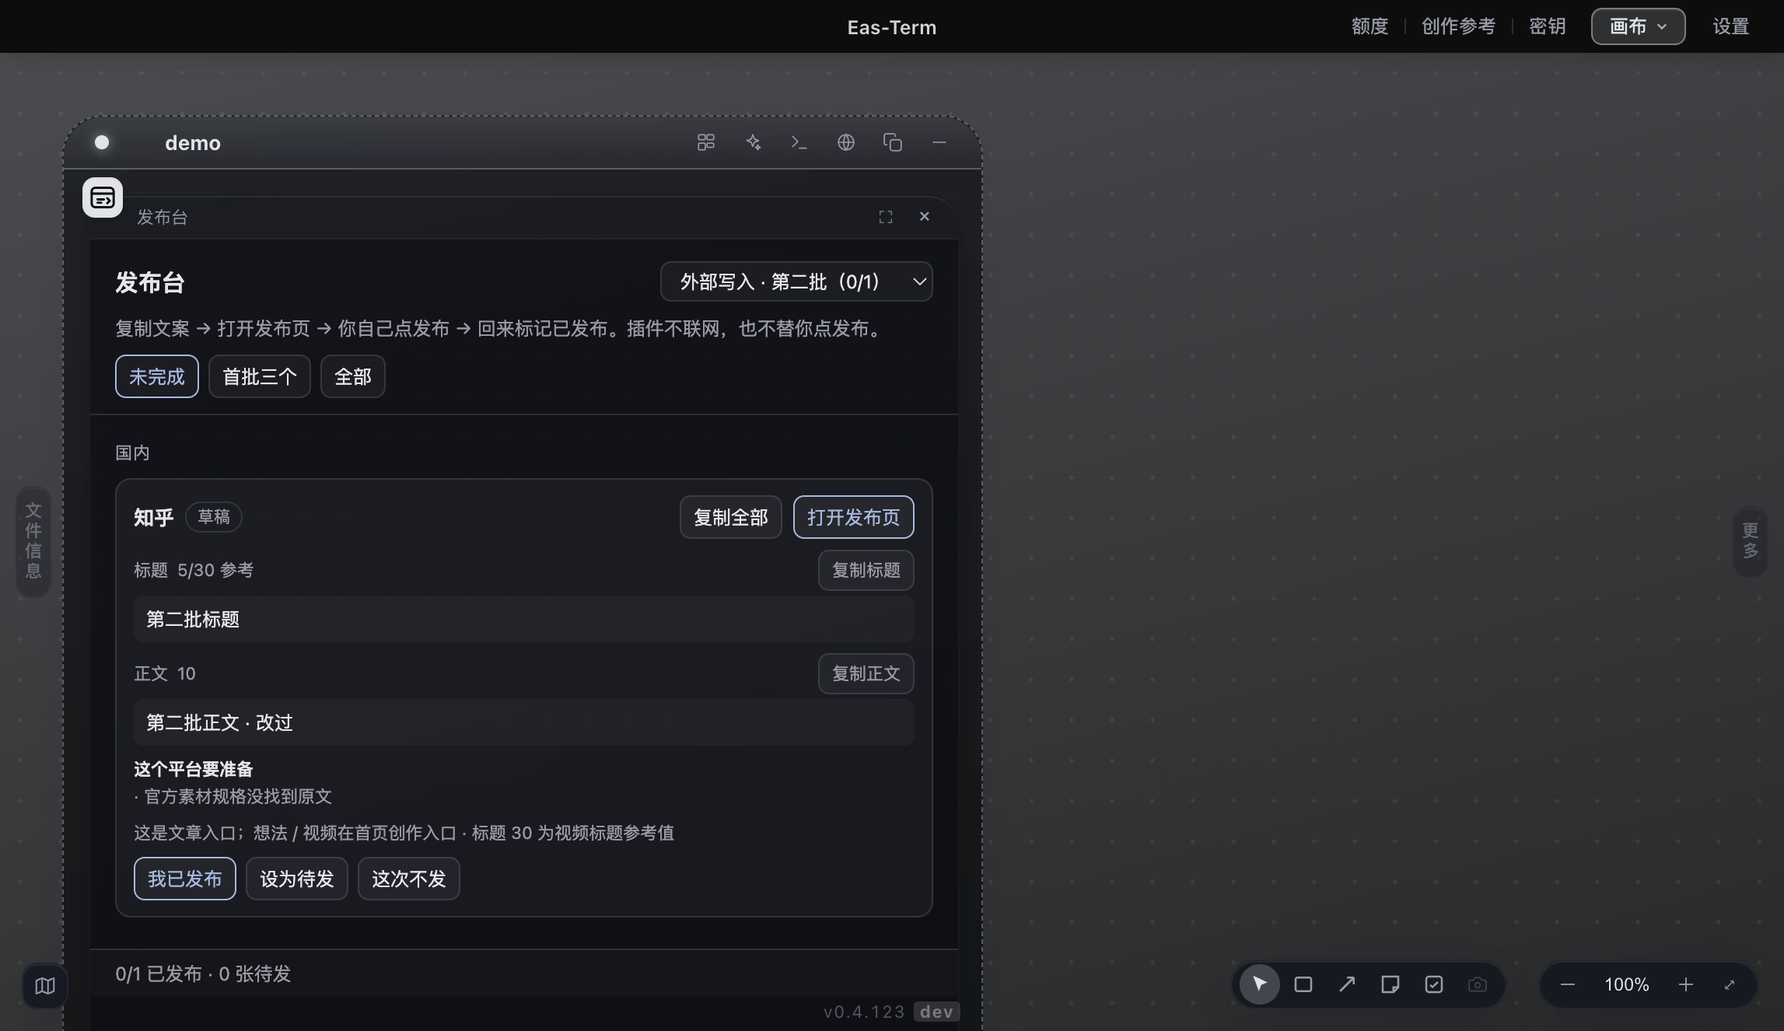
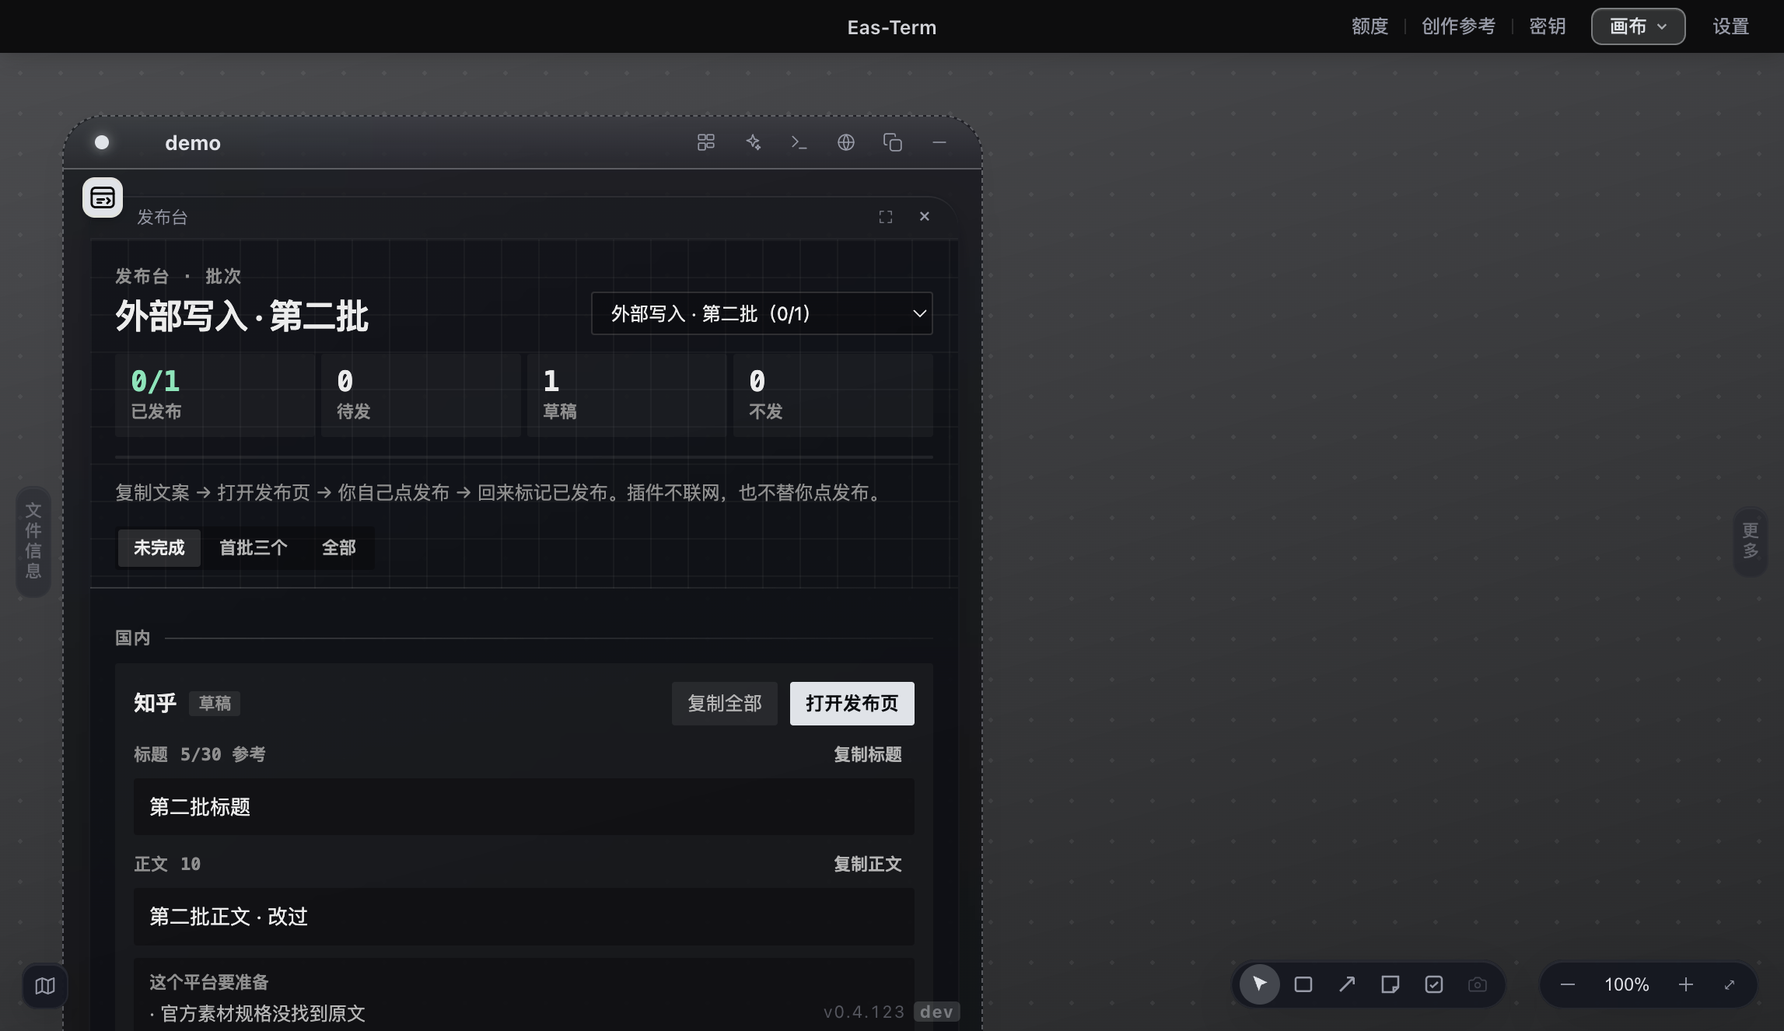
feat(publish-desk): Synth Core-inspired layout; open plugin panels follow theme changes
Panel restyle after the user's Synth Core reference: header with a
four-tile stat row and progress bar, modular card grid (multi-column when
maximized), 2px radius, 4px rhythm, monospace labels and counts, 150ms
colour transitions, faint grid texture in the header. Project rules win
where they conflict (docs/architecture/15): no blue accent (rule 4, the
host --accent values are used), the gradient shell is reduced to one
hairline under the header and above the footer, cards have no borders,
body copy stays sans-serif. Tokens are copied from base.css for both
themes since the sandboxed iframe can't read host variables. The header
scrolls with the content; only the status bar stays pinned.

Host fix found while verifying the light theme: PluginPanel only sent
host-context-changed when the node moved Frame/cwd, so theme switches
never reached already-open panels (every plugin panel kept the theme it
was opened with). It now observes <html data-theme> and pushes the theme.

Verified in an isolated app: dark, light and maximized screenshots with a
realistic batch; the panel follows a theme switch (asserted). npm run
check: 4383 tests, 0 failed.

diff --git a/resources/plugins/publish-desk/ui/panel.html b/resources/plugins/publish-desk/ui/panel.html
@@ -5,53 +5,122 @@
 <meta name="viewport" content="width=device-width,initial-scale=1">
 <title>发布台</title>
 <style>
-  :root{--fg:#e6e6ea;--dim:#9a9aa6;--line:rgba(220,220,235,.13);--card:rgba(220,220,235,.05);--accent:#a2b9e0;--ok:#91c7b9;--warn:#e8c47c;--danger:#f1a9a9}
-  html[data-theme="light"]{--fg:#23252d;--dim:#686b78;--line:rgba(30,34,60,.14);--card:rgba(30,34,60,.04);--accent:#3d5f9e;--ok:#247c67;--warn:#9a6a10;--danger:#a83d3d}
-  *{box-sizing:border-box}body{margin:0;color:var(--fg);background:transparent;font:12px/1.5 -apple-system,BlinkMacSystemFont,"PingFang SC",sans-serif;min-height:100vh}
-  header{padding:14px 16px 10px;border-bottom:1px solid var(--line);display:grid;gap:8px}
-  .top{display:flex;align-items:center;gap:8px}h1{font-size:15px;margin:0;font-weight:650;flex:1}
-  p{margin:0;color:var(--dim)}main{padding:10px 16px 20px;display:grid;gap:8px}
-  button,select,input{font:inherit;color:inherit;background:var(--card);border:1px solid var(--line);border-radius:7px;padding:4px 8px}
-  button{cursor:pointer}button:hover,button:focus-visible,select:focus-visible,input:focus-visible{border-color:var(--accent);outline:none}
-  button.primary{border-color:var(--accent);color:var(--accent)}select{max-width:100%}
-  .filters{display:flex;gap:6px;flex-wrap:wrap}.filters button[aria-pressed="true"]{border-color:var(--accent);color:var(--accent)}
-  .group{margin:6px 0 0;color:var(--dim);font-size:11px;letter-spacing:.04em}
-  .card{border:1px solid var(--line);background:var(--card);border-radius:10px;padding:10px 11px;display:grid;gap:7px}
-  .card[data-status="published"]{border-color:color-mix(in srgb,var(--ok) 55%,transparent)}.card[data-status="skipped"]{opacity:.55}
-  .head{display:flex;align-items:center;gap:7px}.name{font-weight:650;font-size:13px}.head .grow{flex:1}
-  .pill{font-size:10.5px;padding:1px 7px;border-radius:99px;border:1px solid var(--line);color:var(--dim)}
-  .pill.ready{color:var(--accent);border-color:var(--accent)}.pill.published{color:var(--ok);border-color:var(--ok)}
-  .field{display:grid;gap:3px}.label{display:flex;align-items:center;gap:6px;color:var(--dim);font-size:11px}.label .grow{flex:1}
-  .count.over{color:var(--danger)}.count.warn{color:var(--warn)}
-  .text{white-space:pre-wrap;word-break:break-word;padding:6px 8px;border-radius:6px;background:rgba(127,127,140,.07)}
+  /* 版式参照「Synth Core」设计套件（2026-10-02 用户指定）：模块化网格、玻璃面、2px 圆角、4px 节奏、等宽标签、150ms 过渡。
+     与项目视觉规范冲突处以项目为准（docs/architecture/15-视觉令牌与主题.md）：
+     · 强调色不用它的蓝 #2563EB —— 两个主题都不用蓝，强调靠明度（规矩 ④），取宿主 --accent 的两套值；
+     · 层级靠表面明度不靠描边（规矩 ① ②）：它的渐变描边外壳只留表头下面一条发丝线；卡片不描边；
+     · 正文仍用无衬线（中文长文案等宽难读），等宽只给标签、计数、状态。
+     iframe 读不到宿主 CSS 变量，下面的数值抄自 src/renderer/src/styles/base.css 的暗 / 亮两套令牌。 */
+  :root{
+    --bg:#1c1c1c;--t1:#ececec;--t2:#b4b4b4;--t3:#8f8f8f;
+    --lift1:rgba(255,255,255,.035);--lift2:rgba(255,255,255,.07);--lift3:rgba(255,255,255,.12);
+    --wash1:rgba(0,0,0,.28);--wash2:rgba(0,0,0,.4);
+    --accent:#dfe3e8;--on-accent:#0b0d12;--stroke:rgba(255,255,255,.14);
+    --ok:#6ee7b7;--warn:#fcd34d;--danger:#fda4af;
+    --hair:linear-gradient(90deg,rgba(255,255,255,.16),rgba(255,255,255,.04));
+    --grid:rgba(255,255,255,.035);--glass:rgba(28,28,28,.72);
+    --mono:ui-monospace,"SF Mono",Menlo,monospace;--sans:-apple-system,BlinkMacSystemFont,"PingFang SC",sans-serif;
+    --ease:cubic-bezier(.4,0,.2,1);--r:2px
+  }
+  html[data-theme="light"]{
+    --bg:#ffffff;--t1:#0d0d0d;--t2:#5d5d5d;--t3:#737373;
+    --lift1:rgba(0,0,0,.028);--lift2:rgba(0,0,0,.05);--lift3:rgba(0,0,0,.075);
+    --wash1:rgba(0,0,0,.035);--wash2:rgba(0,0,0,.055);
+    --accent:#2f3338;--on-accent:#ffffff;--stroke:rgba(0,0,0,.16);
+    --ok:#0f7a4d;--warn:#8a6100;--danger:#b42318;
+    --hair:linear-gradient(90deg,rgba(0,0,0,.14),rgba(0,0,0,.03));
+    --grid:rgba(0,0,0,.035);--glass:rgba(255,255,255,.8)
+  }
+  *{box-sizing:border-box}
+  body{margin:0;color:var(--t1);background:transparent;font:13px/1.6 var(--sans);min-height:100vh}
+  button,select,input{font:inherit;color:inherit;border-radius:var(--r);transition:background-color 150ms var(--ease),color 150ms var(--ease),border-color 150ms var(--ease)}
+  button{cursor:pointer;background:var(--lift2);border:0;padding:4px 10px;min-height:28px;font-size:12px;color:var(--t2)}
+  button:hover{background:var(--lift3);color:var(--t1)}
+  button:focus-visible,select:focus-visible,input:focus-visible{outline:1px solid var(--accent);outline-offset:1px}
+  button.primary{background:var(--accent);color:var(--on-accent);font-weight:600}
+  button.primary:hover{background:color-mix(in srgb,var(--accent) 86%,var(--bg))}
+  select,input{background:var(--wash1);border:1px solid var(--stroke);padding:4px 8px;min-height:28px}
+  select{max-width:100%;font-size:12px}
+  p{margin:0;color:var(--t2)}
+  .mono{font-family:var(--mono)}
+
+  /* 表头：网格底纹 + 唯一一条渐变发丝线（Synth Core 的「渐变描边外壳」收敛成这一条） */
+  /* 表头随内容滚走：它有统计条，钉住会吃掉面板近一半高度；底部状态栏保持钉住 */
+  header{position:relative;padding:16px 16px 12px;display:grid;gap:12px;
+    background-image:linear-gradient(var(--grid) 1px,transparent 1px),linear-gradient(90deg,var(--grid) 1px,transparent 1px);background-size:24px 24px}
+  header::after{content:"";position:absolute;left:0;right:0;bottom:0;height:1px;background:var(--hair)}
+  .eyebrow{font:600 11px/16px var(--mono);letter-spacing:.08em;color:var(--t3);text-transform:uppercase}
+  .top{display:flex;align-items:flex-end;gap:12px}
+  .top .titles{flex:1;min-width:0;display:grid;gap:4px}
+  h1{font-size:22px;line-height:1.15;margin:0;font-weight:600;letter-spacing:-.03em;overflow:hidden;text-overflow:ellipsis;white-space:nowrap}
+  .top select{flex:0 1 220px}
+  .lede{font-size:12px;color:var(--t3)}
+  /* 统计条：模块化小面板，等宽大数字 */
+  .stats{display:grid;grid-template-columns:repeat(4,1fr);gap:4px}
+  .stat{background:var(--lift1);border-radius:var(--r);padding:8px 10px;display:grid;gap:2px;min-width:0}
+  .stat b{font:600 18px/1.1 var(--mono);letter-spacing:-.02em;color:var(--t1)}
+  .stat span{font:600 11px/16px var(--mono);color:var(--t3)}
+  .stat.ok b{color:var(--ok)}
+  .bar{height:2px;background:var(--lift2);border-radius:var(--r);overflow:hidden}
+  .bar i{display:block;height:100%;background:var(--accent);transition:width 150ms var(--ease)}
+  .filters{display:flex;gap:2px;padding:2px;background:var(--wash1);border-radius:var(--r);width:max-content;max-width:100%;flex-wrap:wrap}
+  .filters button{background:transparent;font:600 11px/16px var(--mono);min-height:24px;padding:4px 10px}
+  .filters button[aria-pressed="true"]{background:var(--lift3);color:var(--t1)}
+
+  /* 卡片网格：窄时一列，最大化后按宽度铺成多列（模块化面板） */
+  main{padding:16px;display:grid;grid-template-columns:repeat(auto-fill,minmax(320px,1fr));gap:8px;align-items:start}
+  main>.group,main>p,main>.empty,main>.error-box{grid-column:1/-1}
+  .group{margin:8px 0 0;display:flex;align-items:center;gap:8px;font:600 11px/16px var(--mono);letter-spacing:.08em;color:var(--t3);text-transform:uppercase}
+  .group::after{content:"";flex:1;height:1px;background:var(--hair)}
+  .card{background:var(--lift1);border-radius:var(--r);padding:12px;display:grid;gap:8px;position:relative;transition:background-color 150ms var(--ease)}
+  .card:hover{background:var(--lift2)}
+  .card[data-status="published"]::before{content:"";position:absolute;left:0;top:0;bottom:0;width:2px;background:var(--ok)}
+  .card[data-status="skipped"]{opacity:.5}
+  .head{display:flex;align-items:center;gap:8px;flex-wrap:wrap}
+  .name{font-weight:600;font-size:14px;letter-spacing:-.01em}
+  .head .grow{flex:1}
+  .pill{font:600 10.5px/16px var(--mono);padding:0 6px;border-radius:var(--r);background:var(--lift2);color:var(--t3)}
+  .pill.ready{background:var(--accent);color:var(--on-accent)}
+  .pill.published{color:var(--ok);background:color-mix(in srgb,var(--ok) 14%,transparent)}
+  .pill.hit-count{color:var(--warn);background:color-mix(in srgb,var(--warn) 14%,transparent)}
+  .field{display:grid;gap:4px}
+  .label{display:flex;align-items:center;gap:8px;font:600 11px/16px var(--mono);color:var(--t3)}
+  .label .grow{flex:1}
+  .label button{min-height:22px;padding:2px 8px;font:600 11px/16px var(--mono);background:transparent}
+  .label button:hover{background:var(--lift2)}
+  .count{font-variant-numeric:tabular-nums}.count.over{color:var(--danger)}.count.warn{color:var(--warn)}
+  .text{white-space:pre-wrap;word-break:break-word;padding:8px 10px;border-radius:var(--r);background:var(--wash1);color:var(--t1)}
   .text.clip{max-height:7.5em;overflow:hidden;mask-image:linear-gradient(#000 70%,transparent)}
-  .empty-field{color:var(--dim);font-style:italic}
-  .lint{margin:0;padding:0;list-style:none;display:grid;gap:2px}.lint li{font-size:11px}.lint .over{color:var(--danger)}.lint .warn{color:var(--warn)}
-  .media{display:grid;gap:6px}.media button{max-width:100%;overflow:hidden;text-overflow:ellipsis;white-space:nowrap}
-  .mitem{display:grid;gap:2px}.mrow{display:flex;align-items:center;gap:8px;flex-wrap:wrap}.minfo{color:var(--dim);font-size:11px}
-  .missue{font-size:11px}.missue.over{color:var(--danger)}.missue.warn{color:var(--warn)}.missue.ok{color:var(--ok)}
-  .need{font-size:11px;color:var(--dim);display:grid;gap:1px}.need b{font-weight:600;color:var(--fg)}
-  .notes{color:var(--dim);font-size:11px}.muted-inline{color:var(--dim);font-size:11px}
-  .actions{display:flex;gap:6px;flex-wrap:wrap;align-items:center}.actions input{flex:1;min-width:160px}
-  .copied{color:var(--ok);font-size:11px}
-  mark{background:color-mix(in srgb,var(--warn) 30%,transparent);color:inherit;border-radius:3px;padding:0 1px}
+  .empty-field{color:var(--t3);font-style:italic}
+  .lint{margin:0;padding:0;list-style:none;display:grid;gap:4px}.lint li{font-size:12px}.lint .over{color:var(--danger)}.lint .warn{color:var(--warn)}
+  .media{display:grid;gap:4px}.media button{max-width:100%;overflow:hidden;text-overflow:ellipsis;white-space:nowrap;text-align:left}
+  .mitem{display:grid;gap:2px}.mrow{display:flex;align-items:center;gap:8px;flex-wrap:wrap}.minfo{color:var(--t3);font:11px/16px var(--mono)}
+  .missue{font-size:12px}.missue.over{color:var(--danger)}.missue.warn{color:var(--warn)}.missue.ok{color:var(--ok)}
+  .need{font-size:12px;color:var(--t2);display:grid;gap:2px;padding:8px 10px;background:var(--wash1);border-radius:var(--r)}
+  .need b{font:600 11px/16px var(--mono);color:var(--t3)}
+  .notes,.muted-inline{color:var(--t3);font-size:12px}
+  .actions{display:flex;gap:4px;flex-wrap:wrap;align-items:center;padding-top:4px}
+  .actions input{flex:1;min-width:160px}
+  .copied{color:var(--ok);font:600 11px/16px var(--mono)}
+  mark{background:color-mix(in srgb,var(--warn) 30%,transparent);color:inherit;border-radius:var(--r);padding:0 2px}
   mark.high{background:color-mix(in srgb,var(--danger) 32%,transparent)}
-  .hits{margin:0;padding:0;list-style:none;display:grid;gap:6px}
-  .hit{border-left:2px solid var(--warn);padding:2px 0 2px 8px;display:grid;gap:1px}.hit.high{border-color:var(--danger)}
-  .hit .w{font-weight:600}.hit .k{color:var(--dim);font-size:11px}.hit .s{font-size:11px}
-  .hit .b{color:var(--dim);font-size:11px}.hit .b button{font-size:11px;padding:0 6px;margin-left:4px}
-  .pill.hit-count{color:var(--warn);border-color:var(--warn)}
-  .error-box{padding:8px 9px;border:1px solid var(--danger);border-radius:7px;color:var(--danger)}
-  .empty{padding:28px 10px;text-align:center;color:var(--dim)}
-  footer{position:sticky;bottom:0;padding:6px 16px;color:var(--dim);border-top:1px solid var(--line);background:rgba(22,22,28,.9)}
-  html[data-theme="light"] footer{background:rgba(248,248,251,.92)}
+  .hits{margin:0;padding:0;list-style:none;display:grid;gap:8px}
+  .hit{border-left:2px solid var(--warn);padding:2px 0 2px 8px;display:grid;gap:2px}.hit.high{border-color:var(--danger)}
+  .hit .w{font-weight:600}.hit .k{color:var(--t3);font:11px/16px var(--mono)}.hit .s{font-size:12px}
+  .hit .b{color:var(--t3);font-size:12px}.hit .b button{min-height:20px;padding:0 6px;margin-left:4px;font-size:11px}
+  .error-box{padding:8px 10px;border-radius:var(--r);background:color-mix(in srgb,var(--danger) 14%,transparent);color:var(--danger)}
+  .empty{padding:48px 16px;text-align:center;color:var(--t3)}
+  footer{position:sticky;bottom:0;padding:8px 16px;color:var(--t3);font:11px/16px var(--mono);background:var(--glass);backdrop-filter:blur(4px)}
+  footer::before{content:"";position:absolute;left:0;right:0;top:0;height:1px;background:var(--hair)}
 </style>
 </head>
 <body>
 <header>
-  <div class="top"><h1>发布台</h1><select id="batch" aria-label="选择批次"></select></div>
-  <p>复制文案 → 打开发布页 → 你自己点发布 → 回来标记已发布。插件不联网，也不替你点发布。</p>
-  <div class="filters" id="filters"></div>
+  <div class="top"><div class="titles"><span class="eyebrow">发布台 · 批次</span><h1 id="title">发布台</h1></div><select id="batch" aria-label="选择批次"></select></div>
+  <div class="stats" id="stats"></div>
+  <div class="bar" aria-hidden="true"><i id="bar" style="width:0"></i></div>
+  <p class="lede">复制文案 → 打开发布页 → 你自己点发布 → 回来标记已发布。插件不联网，也不替你点发布。</p>
+  <div class="filters" id="filters" role="group" aria-label="筛选"></div>
 </header>
 <main id="main"><div class="empty">正在连接宿主…</div></main>
 <footer id="status">连接中</footer>
@@ -113,6 +182,12 @@ function render(){
   const sel=document.getElementById('batch')
   sel.innerHTML=batches.length?batches.map(b=>`<option value="${esc(b.batchId)}"${b.batchId===batchId?' selected':''}>${esc(b.title)}（${b.published}/${b.total}）</option>`).join(''):'<option>暂无批次</option>'
   sel.disabled=!batches.length
+  // 表头：批次名 + 四格统计 + 进度条（不发的不算进分母）
+  const st=batch?{pub:batch.published,ready:batch.ready,skip:batch.skipped,total:batch.total}:null
+  const goal=st?Math.max(0,st.total-st.skip):0
+  document.getElementById('title').textContent=batch?batch.title:'发布台'
+  document.getElementById('stats').innerHTML=st?[['ok','已发布',`${st.pub}/${goal}`],['','待发',st.ready],['','草稿',Math.max(0,st.total-st.pub-st.ready-st.skip)],['','不发',st.skip]].map(([k,l,v])=>`<div class="stat ${k}"><b>${v}</b><span>${l}</span></div>`).join(''):''
+  document.getElementById('bar').style.width=goal?Math.round(st.pub/goal*100)+'%':'0'
   document.getElementById('filters').innerHTML=FILTERS.map(([k,t])=>`<button type="button" data-filter="${k}" aria-pressed="${filter===k}">${t}</button>`).join('')
   const main=document.getElementById('main'),err=error?`<div class="error-box" role="alert">${esc(error)}</div>`:''
   if(!batch){main.innerHTML=err+'<div class="empty">还没有发布批次。让 AI 「把这次宣发按平台写进发布台」，卡片就会出现在这里。</div>';return}
@@ -144,7 +219,7 @@ document.addEventListener('click',e=>{
   if(d.status&&c){tool('desk_mark',{batchId,platform:c.platform,status:d.status}).then(refresh).catch(fail)}
 })
 ;(async()=>{try{
-  const init=await rpc('ui/initialize',{appInfo:{name:'publish-desk',version:'0.1.0'},appCapabilities:{},protocolVersion:'2026-01-26'})
+  const init=await rpc('ui/initialize',{appInfo:{name:'publish-desk',version:'0.1.1'},appCapabilities:{},protocolVersion:'2026-01-26'})
   if(init?.hostContext?.theme)document.documentElement.dataset.theme=init.hostContext.theme
   parent.postMessage({jsonrpc:'2.0',method:'ui/notifications/initialized',params:{}},'*')
   await refresh()

diff --git a/src/renderer/src/features/plugins/PluginPanel.tsx b/src/renderer/src/features/plugins/PluginPanel.tsx
@@ -493,6 +493,22 @@ export function PluginPanel({ ctx, popup = false, onPopupResize }: { ctx: Canvas
     // eslint-disable-next-line react-hooks/exhaustive-deps
   }, [ctx.frameId, ctx.cwd, ctx.projectId])
 
+  // 主题变了 → host-context-changed。上面那个只在节点换 Frame / 目录时发，主题切换从来没送到已开的面板：
+  // 所有插件面板都停在打开那一刻的主题，切到亮色后还是深色的字和底（2026-10-02 发布台改版时实测）。
+  // 盯 <html data-theme> 而不是 store：applyTheme 和「跟随系统」最后都落在这个属性上。
+  useEffect(() => {
+    if (state.k !== 'ready') return
+    let last = themeNow()
+    const mo = new MutationObserver(() => {
+      const now = themeNow()
+      if (now === last || !initializedRef.current) return
+      last = now
+      iframeRef.current?.contentWindow?.postMessage({ jsonrpc: '2.0', method: 'ui/notifications/host-context-changed', params: { theme: now } }, '*')
+    })
+    mo.observe(document.documentElement, { attributes: true, attributeFilter: ['data-theme'] })
+    return () => mo.disconnect()
+  }, [state])
+
   if(configuration)return <PluginConfigurationControls plugin={configuration} initialOpen onClose={()=>{setConfiguration(null);setReloadKey(k=>k+1)}}/>
   if (state.k === 'loading') return <div className="plg-state">{tr('pluginShell.starting')}</div>
   if (state.k === 'error')

diff --git a/docs/architecture/10d-专题记录.md b/docs/architecture/10d-专题记录.md
@@ -834,6 +834,11 @@ Jev v2必须按requirements.capabilities里的jev.decisions.v2分流，不按名
 ### 2026-10-02 发布台面板跟随数据文件刷新（0.1.1）
 面板原来只在宿主转来 `ui/notifications/tool-result` 时刷新，而那只覆盖**经宿主**调用的 `desk_*`。实际发生过：没接好发布台的会话里，AI 自己起 `server.mjs` 把批次写进数据文件——宿主不知道，Frame 里开着的面板一直空着，要关掉重开。现在宿主托管的那个 server 在 `initialize` 后用 `lib/watch.mjs` 盯 `EAS_PLUGIN_DATA` 目录（盯目录不盯文件：store 是写临时文件再 rename），数据文件大小/mtime/inode 变了就发 `notifications/resources/updated`，宿主 `pluginHost.ts onNotification` 原样转给该插件所有面板；面板收到即 refresh，且**新出现的批次自动切过去**（不然停在旧批次上，看起来像没生成）。只读不写，不会和面板 refresh 互相触发。真机验收 `scripts/verify-publish-desk-live.mjs`（复现「绕过宿主写入」，原版本卡在第一步）。
 
+### 2026-10-02 发布台版式（Synth Core 参考）与插件面板跟随主题
+版式参照用户指定的「Synth Core」设计套件：表头四格统计 + 进度条、模块化卡片网格（最大化铺多列）、2px 圆角、4px 节奏、等宽标签与计数、150ms 颜色过渡、表头网格底纹。**与项目规范冲突处以项目为准**（15 图纸）：不用它的蓝 `#2563EB`（规矩 ④，强调色取宿主 `--accent` 两套值）；渐变描边外壳只留表头 / 状态栏一条发丝线、卡片不描边（规矩 ① ②）；正文仍无衬线。iframe 读不到宿主变量，`panel.html` 顶部抄了 base.css 的暗 / 亮两套令牌，**改宿主令牌时这里要跟着改**。
+顺带修了宿主的老毛病：`PluginPanel.tsx` 只在节点换 Frame / 目录时发 `host-context-changed`，**主题切换从没送到已开的面板**（所有插件面板停在打开那刻的主题）。现在用 MutationObserver 盯 `<html data-theme>` 推主题（`pluginPanelTheme.test.mjs`）；`verify-publish-desk-live.mjs` 的 SHOWCASE 段断言切亮色后面板跟着变。
+面板内文仍只有中文：宿主没把界面语言传进插件面板（hostContext 只有 theme），要双语得先在 `appsProtocol.ts` 加 locale，再改各插件面板。
+
 ### 2026-09-30 发布台违禁词检测（publish-desk P2）
 词库在 `resources/plugins/publish-desk/lexicon/`（`law.json` 广告法与执法指南、`platform.json` 各平台社区规范），引擎 `lib/lexicon.mjs`，加载 `lib/builtin.mjs`。**每条必须带依据链接、条款号、原文摘录**，缺依据整库拒绝加载（不跳过）；命中一律是提示不是禁止。原文与取法、哪些没找到原文见 `docs/knowledge/publish-desk-lexicon-basis-2026-09-30.md`——**加词条前先对原文，提示文字不许比原文说得更重**（例如抖音第 35 条有「以谋取不正当利益等为目的」的前提，B站条款限定「可能引发争议、损害用户利益」）。视频号对一般内容、X / Reddit 没有对应条款，故意不设词条。用户记下的词存在插件数据的 `lexicon` 数组（`desk_lexicon`），内置词条删不掉。
 验收时注意：宿主 `pluginLifecycle.ts` 监听插件目录，**改了插件里任何文件，正在跑的插件进程会被停掉**，面板显示「插件进程退出了」，点重试即可——不是插件崩溃。
